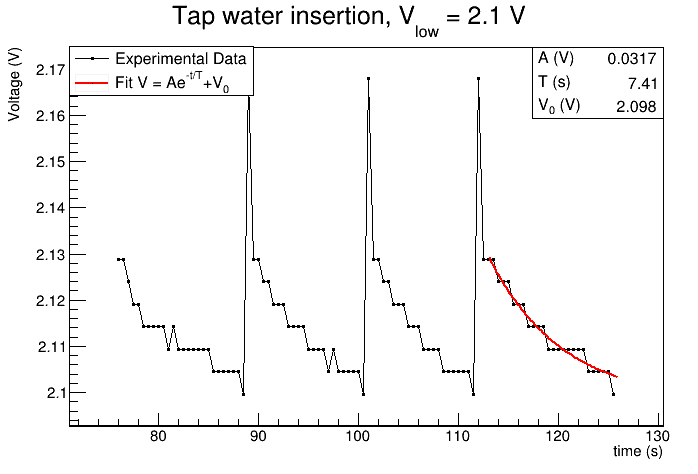
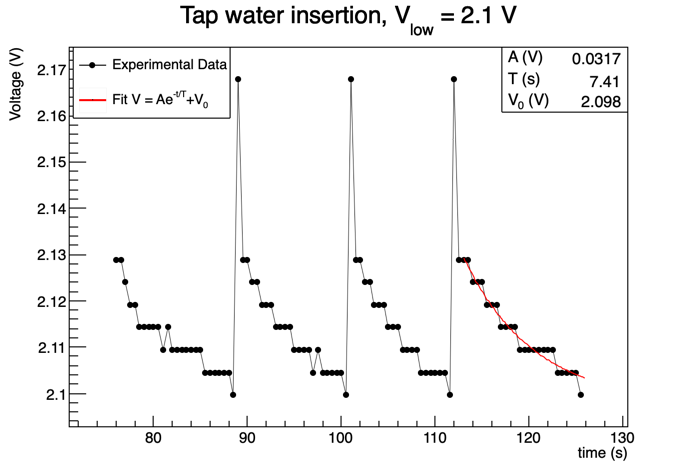
Final plots with cosmetic

diff --git a/Graph/Analysis.C b/Graph/Analysis.C
@@ -1,24 +1,168 @@
 // File used to analyze the data of Artificial pancreas
 
-void Analysis(TString path = "Insert_tap_2.csv") {
-    
+void Analysis(TString path = "Insert_tap_2.csv")
+{
+
     gStyle->SetOptFit(0010);
-    
+    gStyle->SetStatX(0.9);
+    gStyle->SetStatY(0.9);
+    gStyle->SetStatW(0.1);
+    gStyle->SetStatH(0.05);
+    gStyle->SetLabelOffset(1.);
+    gStyle->SetLabelFont(72);
+
+    TFile *f = new TFile("graph.root", "read");
+
     // TTree* t = new TTree("t", "Tree");
     // t->ReadFile(path, "t/D, V");
-    
-    TGraph* g = new TGraph(path, "%lg %lg", ",");
-    TF1* f_exp = new TF1("f_exp", "[0]*e^(-(x-113)/[1])+[2]", 113, 126);
-    g->SetTitle("Tap water insertion, V_{low} = 2.1 V; time (s); Voltage (V)");
-    f_exp->SetParNames("A (V)","T (s)","V_{0} (V)");
-    f_exp->SetParameters(0.5,10,2.5);
-    g->Fit("f_exp", "S", "", 113, 126);
-    
-    TLegend* leg = new TLegend();
-    leg->AddEntry(g, "Experimental Data");
-    leg->AddEntry(f_exp, "Fit V = Ae^{-t/T}+V_{0}");
-    
-    g->Draw();
-    leg->Draw("SAME");
-    
+
+    // Insert salt from 3.2V
+    TCanvas *c1 = new TCanvas("c1", "c1");
+
+    // Retrieve the graph from the root file
+    TGraph *g1 = (TGraph *)f->Get("Graph;1");
+
+    // Define the fit function
+    TF1 *f_exp1 = new TF1("f_exp1", "[0]*e^(-(x-25)/[1])+[2]", 25, 50);
+    f_exp1->SetTitle("Voltage vs time; time (s); Voltage (V)");
+    f_exp1->SetParNames("A (V)", "T (s)", "V_{0} (V)");
+    f_exp1->SetParameters(0.5, 10, 2.5);
+
+    // fit
+    g1->Fit("f_exp1", "S", "", 25, 50);
+
+    // Graph cosmetic
+    g1->SetTitle("Insert salt from 3.2V;time (s);Voltage (V)");
+    g1->SetMarkerStyle(8);
+    g1->SetMarkerColor(kBlack);
+    g1->SetMarkerSize(.7);
+    g1->SetLineStyle(1);
+    g1->SetLineWidth(1.);
+
+    // Legend
+    TLegend *leg1 = new TLegend(0.6,0.15,0.85,0.25);
+    leg1->AddEntry(g1, "Experimental Data");
+    leg1->AddEntry(f_exp1, "Fit V = Ae^{-t/T}+V_{0}");
+
+    // Draw and save
+    g1->Draw();
+    leg1->Draw("SAME");
+    c1->Print("FinalPlots/Insert_salt_from_3_2V.png");
+
+    //----------------------------------------------------------
+
+    // Insert Tap 1
+    TCanvas *c2 = new TCanvas("c2", "c2");
+
+    // Retrieve the graph from the root file
+    TGraph *g2 = (TGraph *)f->Get("Graph;2");
+
+    // Graph cosmetic
+    g2->SetTitle("Insert tap 1;time (s);Voltage (V)");
+    g2->SetMarkerStyle(8);
+    g2->SetMarkerColor(kBlack);
+    g2->SetMarkerSize(.7);
+    g2->SetLineStyle(1);
+    g2->SetLineWidth(1.);
+
+    // Legend
+    TLegend *leg2 = new TLegend(0.6,0.15,0.85,0.25);
+    leg2->AddEntry(g2, "Experimental Data");
+
+    // Draw and save
+    g2->Draw();
+    leg2->Draw("SAME");
+    c2->Print("FinalPlots/Insert_tap_1.png");
+
+    //----------------------------------------------------------
+    // Insert Tap 2
+    TCanvas *c3 = new TCanvas("c3", "c3");
+
+    // Retrieve the graph from the root file
+    TGraph *g3 = (TGraph *)f->Get("Graph;3");
+
+    // Define the fit function
+    TF1 *f_exp3 = new TF1("f_exp3", "[0]*e^(-(x-113)/[1])+[2]", 113, 126);
+    f_exp3->SetParNames("A (V)", "T (s)", "V_{0} (V)");
+    f_exp3->SetParameters(0.5, 10, 2.5);
+
+    // fit
+    g3->Fit("f_exp3", "S", "", 113, 126);
+
+    // Graph cosmetic
+    g3->SetTitle("Tap water insertion, V_{low} = 2.1 V; time (s); Voltage (V)");
+    g3->SetMarkerStyle(8);
+    g3->SetMarkerColor(kBlack);
+    g3->SetMarkerSize(.7);
+    g3->SetLineStyle(1);
+    g3->SetLineWidth(1.);
+
+    // Legend
+    TLegend *leg3 = new TLegend(0.105,0.75,0.33,0.9);
+    leg3->AddEntry(g3, "Experimental Data");
+    leg3->AddEntry(f_exp3, "Fit V = Ae^{-t/T}+V_{0}");
+
+    // Draw and save
+    g3->Draw();
+    leg3->Draw("SAME");
+    c3->Print("FinalPlots/Insert_tap_2.png");
+    //----------------------------------------------------------
+
+    // Insert Salt 3V
+    TCanvas *c4 = new TCanvas("c4", "c4");
+
+    // Retrieve the graph from the root file
+    TGraph *g4 = (TGraph *)f->Get("Graph;4");
+
+    // Define the fit function
+    TF1 *f_exp4 = new TF1("f_exp4", "[0]*e^(-(x-40)/[1])+[2]", 40, 80);
+    f_exp4->SetParNames("A (V)", "T (s)", "V_{0} (V)");
+    f_exp4->SetParameters(0.5, 10, 2.5);
+
+    // fit
+    g4->Fit("f_exp4", "S", "", 40, 80);
+
+    // Graph cosmetic
+    g4->SetTitle("Insert salt 3V;time (s);Voltage (V)");
+    g4->SetMarkerStyle(8);
+    g4->SetMarkerColor(kBlack);
+    g4->SetMarkerSize(.7);
+    g4->SetLineStyle(1);
+    g4->SetLineWidth(1.);
+
+    // Legend
+    TLegend *leg4 = new TLegend(0.125,0.13,0.4,0.205);
+    leg4->AddEntry(g4, "Experimental Data");
+    leg4->AddEntry(f_exp4, "Fit V = Ae^{-t/T}+V_{0}");
+
+
+    // Draw and save
+    g4->Draw();
+    leg4->Draw("SAME");
+    c4->Print("FinalPlots/Insert_salt_3V.png");
+    //----------------------------------------------------------
+    // Insert Salt 2.86V
+    TCanvas *c5 = new TCanvas("c5", "c5");
+
+    // Retrieve the graph from the root file
+    TGraph *g5 = (TGraph *)f->Get("Graph;5");
+
+    // Graph cosmetic
+    g5->SetTitle("Insert Salt 2.86V;time (s);Voltage (V)");
+    g5->SetMarkerStyle(8);
+    g5->SetMarkerColor(kBlack);
+    g5->SetMarkerSize(.7);
+    g5->SetLineStyle(1);
+    g5->SetLineWidth(1.);
+
+    // Legend
+    TLegend *leg5 = new TLegend(0.6,0.8,0.875,0.875);
+    leg5->AddEntry(g5, "Experimental Data");
+
+    // Draw and save
+    g5->Draw();
+    leg5->Draw("SAME");
+    c5->Print("FinalPlots/Insert_salt_2_86V.png");
+    //-----------------------------------------------------------
+
 }

diff --git a/Graph/fit.cpp b/Graph/fit.cpp
@@ -1,17 +1,17 @@
 void fit(){
      TFile *f = new TFile("graph.root","read");
 
-     TGraph *g4 = (TGraph*) f->Get("Graph;1");
+     TGraph *g4 = (TGraph*) f->Get("Graph;5");
      //g4->GetXaxis()->SetRange(80,160);
-     TF1* f_exp = new TF1("f_exp", "[0]*e^(-(x-25)/[1])+[2]", 25, 50);
+     TF1* f_exp = new TF1("f_exp", "[0]*e^(-(x-30)/[1])+[2]", 30, 70);
     f_exp->SetTitle("Voltage vs time; time (s); Voltage (V)");
     f_exp->SetParNames("A","T","V_{0}");
     f_exp->SetParameters(0.5,10,2.5);
-    g4->Fit("f_exp", "S", "", 25, 50);
+    g4->Fit("f_exp", "S", "", 30, 70);
     g4->SetMarkerStyle(8);
     g4->SetMarkerColor(kBlack);
     g4->SetMarkerSize(.7);
     g4->SetLineStyle(1);
     g4->SetLineWidth(1.);
-     g4->Draw();
+    g4->Draw();
 }
